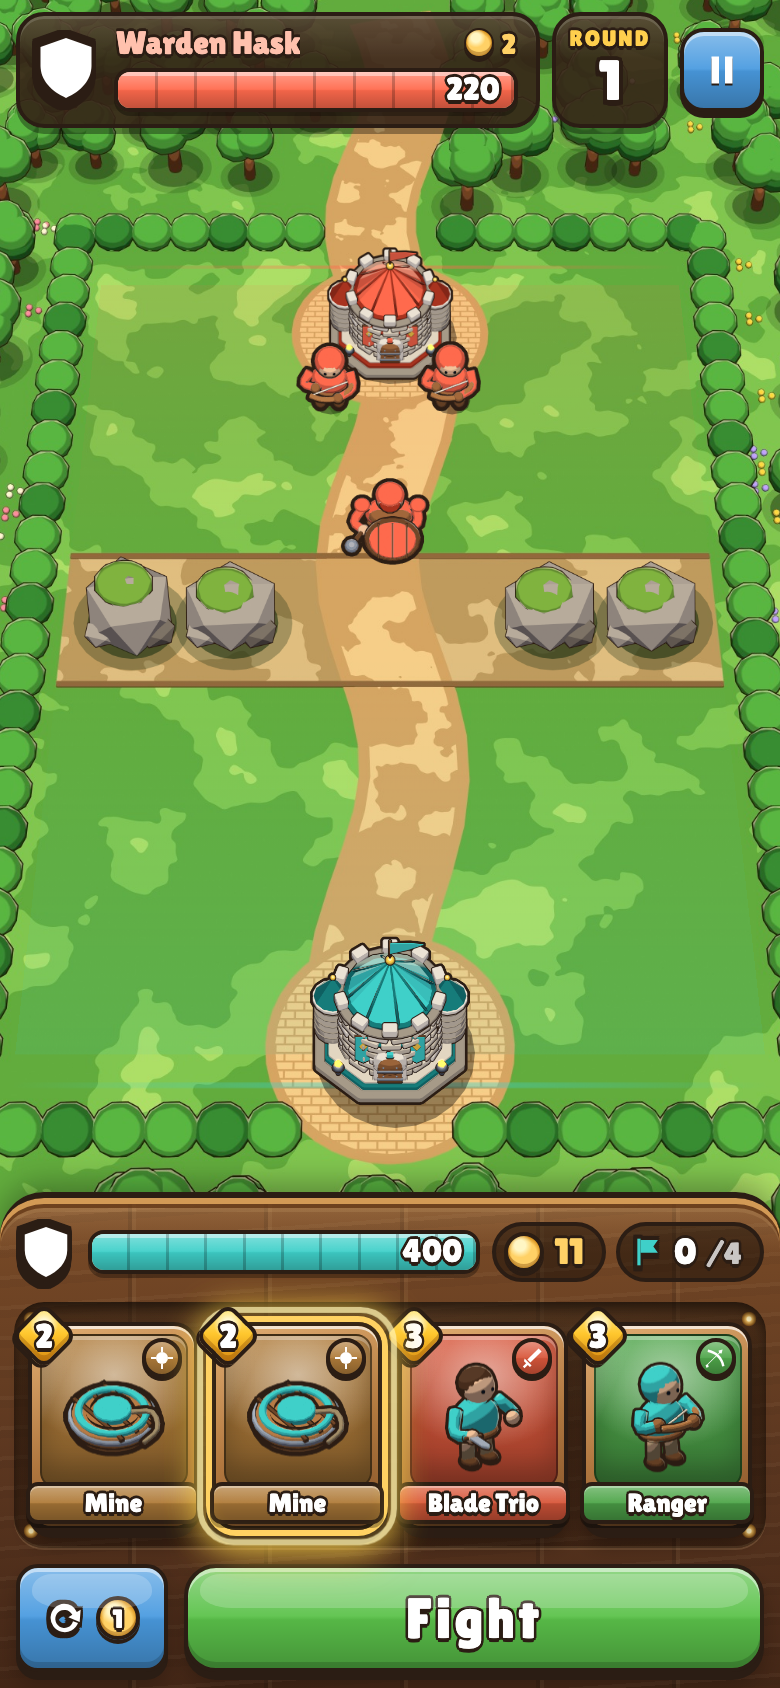
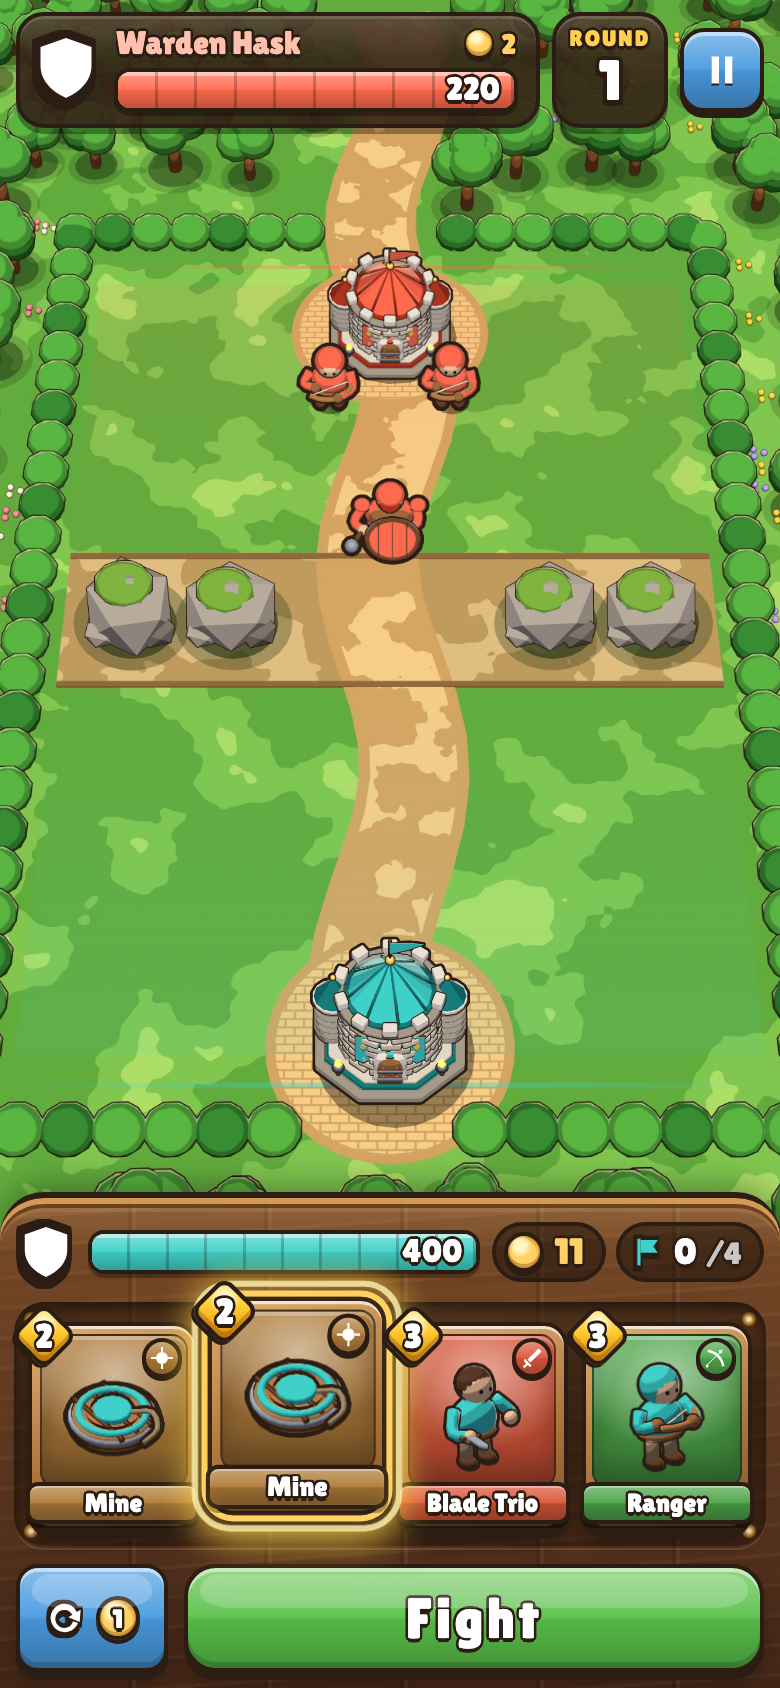
Hand: fix deal fill overriding pick/drag/rest states; drag and deploy shots; opacity-only Fight pulse; softer disabled buttons and red reroll cost when short

Changed region(s): [[0.2154, 0.7393, 0.6769, 0.955], [0.8, 0.8009, 0.8923, 0.8626], [0.7077, 0.8009, 0.7692, 0.8626]]

diff --git a/src/styles.css b/src/styles.css
@@ -97,7 +97,7 @@ button { font-family: inherit; color: inherit; }
   transition: transform 0.07s, box-shadow 0.07s, filter 0.15s; }
 .btn::after { content: ""; position: absolute; left: 6px; right: 6px; top: 3px; height: 34%; border-radius: 10px 10px 16px 16px / 8px 8px 8px 8px; background: rgba(255,255,255,0.2); pointer-events: none; }
 .btn:active:not(:disabled) { transform: translateY(3px); box-shadow: inset 0 2px 0 rgba(255,255,255,0.5), inset 0 -3px 0 rgba(0,0,0,0.16), 0 1px 0 var(--k-ink); }
-.btn:disabled { filter: saturate(0.2) brightness(0.82); cursor: default; }
+.btn:disabled { filter: saturate(0.55) brightness(0.86); cursor: default; }
 .btn.primary { --b: var(--k-go); }
 .btn.gold, .btn.up { --b: var(--k-accent); }
 .btn.danger, .btn.sell { --b: var(--k-danger); }
@@ -240,7 +240,7 @@ button { font-family: inherit; color: inherit; }
   30% { transform: translate(calc(var(--dx) * 0.3), calc(var(--dy) * 0.3)) scale(1.14) rotate(-4deg); opacity: 1; }
   100% { transform: translate(var(--dx), var(--dy)) scale(0.45) rotate(6deg); opacity: 0; } }
 /* Dealt in: a short toss from the tray edge, staggered across the hand. */
-.card.deal { animation: deal 0.48s cubic-bezier(.2,1.5,.4,1) both; animation-delay: calc(var(--i, 0) * 70ms); }
+.card.deal { animation: deal 0.48s cubic-bezier(.2,1.5,.4,1) backwards; animation-delay: calc(var(--i, 0) * 70ms); }
 @keyframes deal { 0% { transform: translateY(36px) scale(0.6) rotate(-10deg); opacity: 0; } 55% { opacity: 1; } 100% { transform: none; opacity: 1; } }
 /* An empty slot: a recessed socket with the crest worked into it. */
 .card.sold { border: 2px solid rgba(0,0,0,0.42); background: radial-gradient(70% 55% at 50% 42%, rgba(255,220,160,0.1), rgba(0,0,0,0) 70%), rgba(20,10,4,0.3);
@@ -279,12 +279,15 @@ button { font-family: inherit; color: inherit; }
 
 .actions { position: relative; display: flex; gap: 8px; align-items: center; min-height: 54px; }
 .btn.fight { flex: 1; height: 54px; font-size: 28px; letter-spacing: 0.06em; --b: var(--k-go); border-radius: 16px; }
-.btn.fight.ready { animation: ready 1.6s ease-in-out infinite; }
-@keyframes ready { 0%, 100% { filter: none; } 50% { filter: brightness(1.12); } }
+/* Ready to fight: a soft light breathes over the button (opacity only, no filter repaint each frame). */
+.btn.fight.ready::before { content: ""; position: absolute; inset: 0; border-radius: inherit; background: rgba(255,255,255,0.2); opacity: 0; pointer-events: none; animation: ready 1.6s ease-in-out infinite; }
+@keyframes ready { 0%, 100% { opacity: 0; } 50% { opacity: 1; } }
 .reroll { min-width: 72px; height: 54px; display: inline-flex; align-items: center; justify-content: center; gap: 6px; }
 .reroll .coin { width: 22px; height: 22px; font-size: 13px; border-width: 2px; }
 .reroll .icon { font-size: 20px; }
 .reroll.gone { display: none; }
+.reroll:disabled { filter: brightness(0.86); }
+.reroll:disabled .coin { background: radial-gradient(circle at 38% 30%, #ffe0d6 0 18%, rgba(255,224,214,0) 40%), radial-gradient(circle at 50% 55%, #ec4a32 0 52%, #a42414 72%); }
 .status { position: absolute; left: 0; right: 0; bottom: calc(100% + 118px); text-align: center; font: 400 17px/1.1 var(--display); color: #fff; text-shadow: var(--ol-s); opacity: 0; pointer-events: none; }
 .status > span { display: inline-block; padding: 5px 12px 6px; border-radius: 10px; border: 2.5px solid var(--k-ink); background: var(--gloss), var(--k-danger); }
 .status.flash { animation: flashText 1.4s ease-out; }
